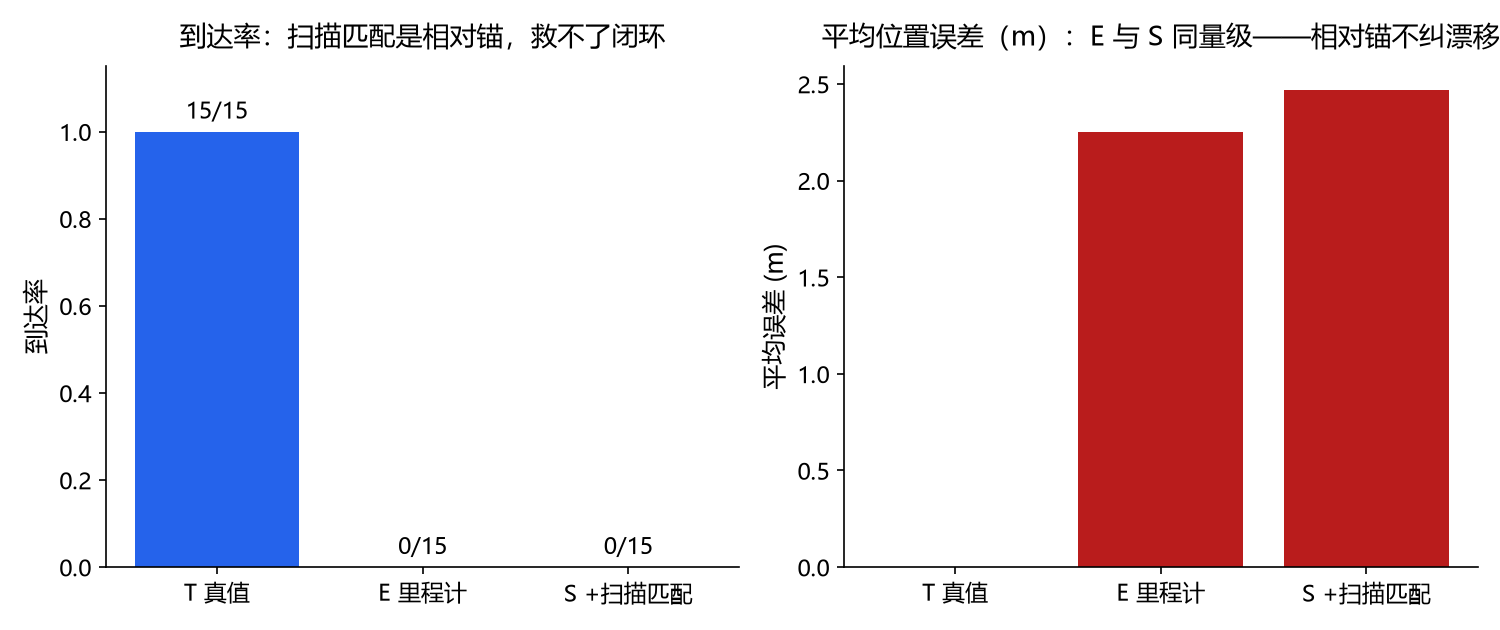
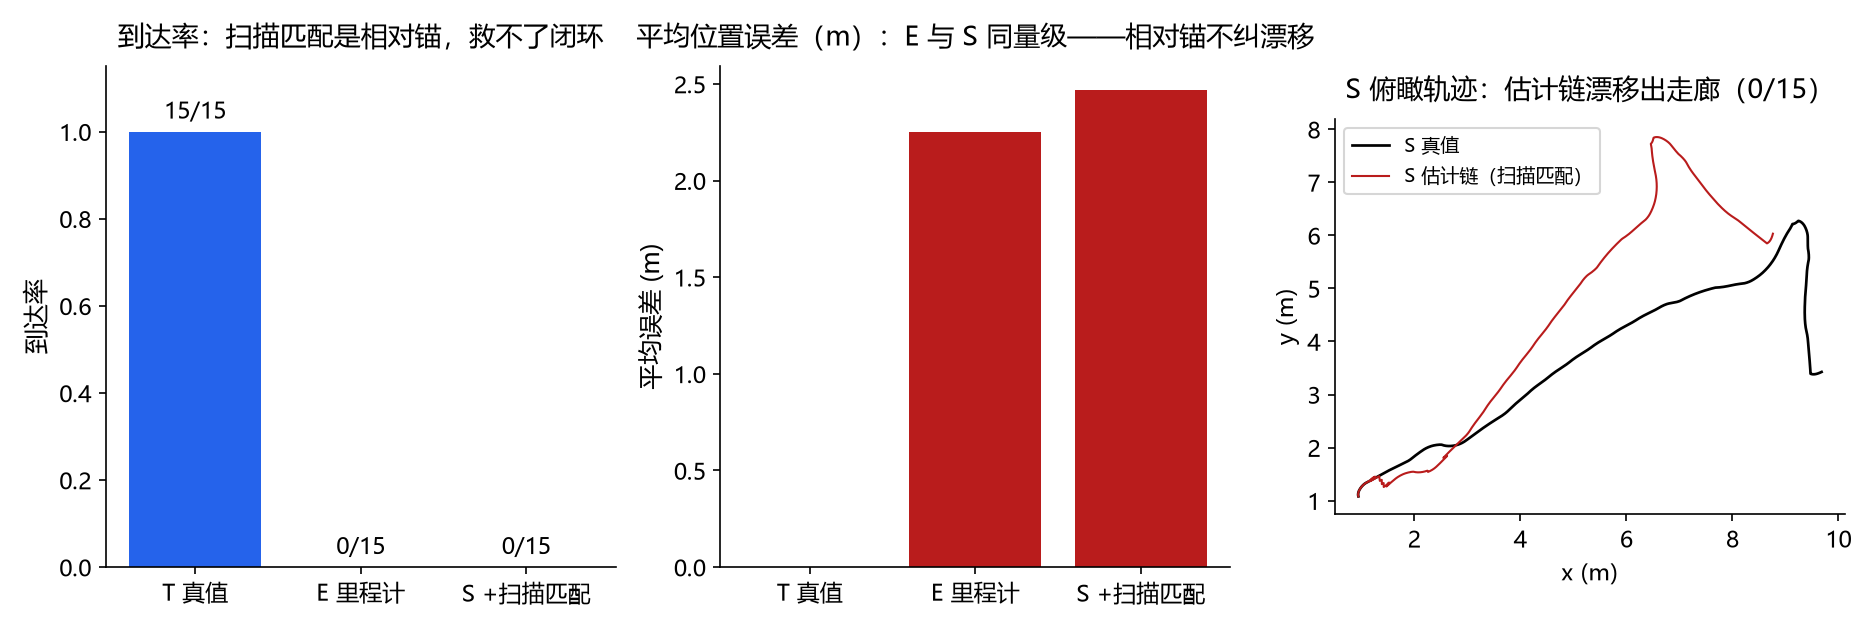
README 图表补运动轨迹面板（43-46 课俯瞰轨迹、56 课轨迹三链），图注同步

diff --git a/docs/img/make_readme_figures.py b/docs/img/make_readme_figures.py
@@ -58,11 +58,22 @@ def save(fig, name):
     print("wrote", name)
 
 
+def traj_panel(ax, chains, title):
+    """Top-down trajectory panel: chains = [(label, xy, color, lw)]."""
+    for label, xy, color, lw in chains:
+        ax.plot(xy[:, 0], xy[:, 1], "-", color=color, lw=lw, label=label)
+    ax.set_aspect("equal")
+    style_axes(ax, title)
+    ax.set_xlabel("x (m)", fontsize=11)
+    ax.set_ylabel("y (m)", fontsize=11)
+    ax.legend(fontsize=9, loc="upper left")
+
+
 # ------------------------------------------------------------ lesson 43
 def lesson43():
-    report, _data = load("grid_nav_2026-09-06_v2")
+    report, data = load("grid_nav_2026-09-06_v2")
     agg = report["aggregates"]
-    fig, axes = two_panel()
+    fig, axes = plt.subplots(1, 3, figsize=(12.5, 4.2), dpi=DPI)
     names = ["A 盲飞（纯目标点）", "B 全栈（建图+A*+追踪）"]
     rates = [
         agg["A"]["obstacle"]["arrival_rate"],
@@ -83,16 +94,24 @@ def lesson43():
         axes[1].text(i, v + 20, str(v), ha="center", fontsize=12)
     style_axes(axes[1], "碰撞事件总数：1005 → 0")
     axes[1].set_ylabel("碰撞事件", fontsize=12)
+    traj_panel(
+        axes[2],
+        [
+            ("B 组执行轨迹（场景 1）", data["truth_B_1_0"], C_PF, 1.4),
+            ("A 组盲飞轨迹（场景 1）", data["truth_A_1_0"], C_BAD, 1.0),
+        ],
+        "俯瞰轨迹：B 沿规划路径，A 在起点打转",
+    )
     save(fig, "lesson-43-charts.png")
 
 
 # ------------------------------------------------------------ lesson 44
 def lesson44():
-    report, _data = load("nav_pose_error_2026-09-07")
+    report, data = load("nav_pose_error_2026-09-07")
     agg = report["aggregates"]
     names = ["T 真值", "O1 里程计1%", "O2 里程计2%", "F 融合观测"]
     rates = [agg[g]["obstacle"]["arrival_rate"] for g in ("T", "O1", "O2", "F")]
-    fig, axes = two_panel()
+    fig, axes = plt.subplots(1, 3, figsize=(12.5, 4.2), dpi=DPI)
     axes[0].bar(names, rates, color=[C_GOOD, C_BAD, C_BAD, C_PF])
     for i, v in enumerate(rates):
         axes[0].text(i, v + 0.03, f"{int(v * 15)}/15", ha="center", fontsize=11)
@@ -108,16 +127,24 @@ def lesson44():
     )
     style_axes(axes[1], "融合观测后定位误差回到真值量级（2.5 cm）")
     axes[1].set_ylabel("平均定位误差 (m)", fontsize=12)
+    traj_panel(
+        axes[2],
+        [
+            ("O2 真值", data["truth_O2_1_0"], "k", 1.3),
+            ("O2 估计链（2% 偏差）", data["estimates_O2_1_0"], C_BAD, 1.0),
+        ],
+        "O2 俯瞰轨迹：估计链原地兜圈（0/15）",
+    )
     save(fig, "lesson-44-charts.png")
 
 
 # ------------------------------------------------------------ lesson 45
 def lesson45():
-    report, _data = load("scan_slam_2026-09-07")
+    report, data = load("scan_slam_2026-09-07")
     agg = report["aggregates"]
     names = ["T 真值", "E 里程计", "S +扫描匹配"]
     rates = [agg[g]["obstacle"]["arrival_rate"] for g in ("T", "E", "S")]
-    fig, axes = two_panel()
+    fig, axes = plt.subplots(1, 3, figsize=(12.5, 4.2), dpi=DPI)
     axes[0].bar(names, rates, color=[C_GOOD, C_BAD, C_BAD])
     for i, v in enumerate(rates):
         axes[0].text(i, v + 0.03, f"{int(v * 15)}/15", ha="center", fontsize=11)
@@ -132,17 +159,25 @@ def lesson45():
     axes[1].bar(names, errs, color=[C_GOOD, C_BAD, C_BAD])
     style_axes(axes[1], "平均位置误差（m）：E 与 S 同量级——相对锚不纠漂移")
     axes[1].set_ylabel("平均误差 (m)", fontsize=12)
+    traj_panel(
+        axes[2],
+        [
+            ("S 真值", data["truth_S_1_0"], "k", 1.3),
+            ("S 估计链（扫描匹配）", data["estimates_S_1_0"], C_BAD, 1.0),
+        ],
+        "S 俯瞰轨迹：估计链漂移出走廊（0/15）",
+    )
     save(fig, "lesson-45-charts.png")
 
 
 # ------------------------------------------------------------ lesson 46
 def lesson46():
-    report, _data = load("loop_closure_2026-09-07")
+    report, data = load("loop_closure_2026-09-07")
     agg = report["aggregates"]
     names = ["N", "S", "L", "LT"]
     finals = [num(agg[g]["final_position_error_m"]) for g in names]
     relaxed = [num(agg[g].get("final_position_error_relaxed_m")) for g in names]
-    fig, axes = two_panel()
+    fig, axes = plt.subplots(1, 3, figsize=(12.5, 4.2), dpi=DPI)
     x = np.arange(4)
     axes[0].bar(x - 0.18, finals, 0.36, color=C_BAD, label="松弛前")
     axes[0].bar(x + 0.18, relaxed, 0.36, color=C_PF, label="松弛后")
@@ -158,6 +193,15 @@ def lesson46():
     axes[1].set_ylim(0, 1.05)
     style_axes(axes[1], "回环检测成功率（宽门匹配 + 残差门）")
     axes[1].set_ylabel("成功率", fontsize=12)
+    traj_panel(
+        axes[2],
+        [
+            ("真值巡逻", data["truth_0_0"], "k", 1.3),
+            ("L 估计链（漂移）", data["est_L_0_0"], C_BAD, 1.0),
+            ("弧长校正链（回环后）", data["relaxed_chain"], C_PF, 1.4),
+        ],
+        "回环闭合：漂移链被校正链拉回真值",
+    )
     save(fig, "lesson-46-charts.png")
 
 
@@ -393,7 +437,7 @@ def lesson55():
 # ------------------------------------------------------------ lesson 56
 def lesson56():
     report, data = load("map_localization_2026-09-09")
-    fig, axes = two_panel(figsize=(10.0, 4.4))
+    fig, axes = plt.subplots(1, 3, figsize=(12.5, 4.2), dpi=DPI)
     axes[0].plot(data["est_err_curve"], color=C_EST, lw=1.1, label="EST 无图漂移链")
     axes[0].plot(data["pf_self_err"], color=C_SELF, lw=0.9, label="PF-SELFBUILT 自建图")
     axes[0].plot(data["pf_true_err"], color=C_PF, lw=1.3, label="PF-TRUEMAP 优质图")

diff --git a/README.md b/README.md
@@ -1031,7 +1031,7 @@ uv run python -m embodied_learning.act_torch_demo --results results/act_torch_re
 ## 第四十三课：占据栅格建图 + A\* 路径规划——回到感知-建图-规划主线
 
 ![第四十三课演示画面：三模式合览](docs/img/lesson-43-demo.png)
-![第四十三课数据图：左=到达率对比（15/15 vs 3/15）；右=碰撞事件 1005→0](docs/img/lesson-43-charts.png)
+![第四十三课数据图：左=到达率（15/15 vs 3/15）；中=碰撞 1005→0；右=俯瞰轨迹（B 沿规划路径，A 打转）](docs/img/lesson-43-charts.png)
 
 数据解读：B 组到达率 100%、零碰撞，路径比中位 0.974≈全知最短——分层栈各层安全常数必须全局一致。
 
@@ -1061,7 +1061,7 @@ uv run python -m embodied_learning.grid_nav_demo --results results/grid_nav_2026
 ## 第四十四课：定位误差穿栈——位姿不确定下建图-规划-追踪还成立吗？
 
 ![第四十四课演示画面：三模式合览](docs/img/lesson-44-demo.png)
-![第四十四课数据图：左=四组到达率（T/F 15/15，O1/O2 全灭）；右=融合后误差回到 2.5 cm](docs/img/lesson-44-charts.png)
+![第四十四课数据图：左=四组到达率；中=融合后误差 2.5 cm；右=O2 轨迹（估计链原地兜圈）](docs/img/lesson-44-charts.png)
 
 数据解读：1% 里程计偏差即 0/15——定位是导航栈的地基；地标融合后 15/15、误差 2.5 cm 与真值组等价。
 
@@ -1093,7 +1093,7 @@ uv run python -m embodied_learning.nav_pose_error_demo --results results/nav_pos
 ## 第四十五课：最小栅格 SLAM——扫描匹配是相对锚，不能给出绝对真值
 
 ![第四十五课演示画面：三模式合览](docs/img/lesson-45-demo.png)
-![第四十五课数据图：左=T/E/S 到达率（E 与 S 均 0/15）；右=平均误差同量级](docs/img/lesson-45-charts.png)
+![第四十五课数据图：左=到达率；中=平均误差同量级；右=S 轨迹（估计链漂出走廊）](docs/img/lesson-45-charts.png)
 
 数据解读：扫描匹配改善局部一致性，但相对锚不能给出绝对真值——S 组 0/15 与纯里程计同量级。
 
@@ -1118,7 +1118,7 @@ uv run python -m embodied_learning.scan_slam_demo --results results/scan_slam_20
 ## 第四十六课：回环闭合——绝对锚的第二形态
 
 ![第四十六课演示画面：三模式合览](docs/img/lesson-46-demo.png)
-![第四十六课数据图：左=四链末端误差（松弛前/后）；右=L 组回环检测成功率](docs/img/lesson-46-charts.png)
+![第四十六课数据图：左=末端误差松弛前/后；中=检测成功率；右=回环闭合三链（漂移链被拉回真值）](docs/img/lesson-46-charts.png)
 
 数据解读：回环闭合把末端误差从 9.18 m 压到 0.14 m（LT 黄金边 0.16 m）——回环是绝对锚的第二形态。
 
@@ -1232,7 +1232,7 @@ uv run python -m embodied_learning.pose_graph_demo --results results/pose_graph_
 
 左图：三条误差曲线——EST（红）随里程累积发散到 7 m+，PF-TRUEMAP（绿）被图钉住、有界振荡（末端 7.37→2.62 m，2.8×），PF-SELFBUILT（灰）居中（自建图被建图时的漂移涂抹）；右图：轨迹三链可见 PF 贴着真值而 EST 漂走。绑架重定位 0/5 如实阴性（稀疏标记图+4 重对称+粒子不足）。
 
-![第五十六课图：左=EST/PF-SELFBUILT/PF-TRUEMAP 误差曲线；右=绑架五时点恢复误差](docs/img/lesson-56-charts.png)
+![第五十六课图：左=误差曲线；中=轨迹三链（PF 贴真值、EST 漂走）；右=绑架五时点恢复误差](docs/img/lesson-56-charts.png)
 
 讲义：[docs/61](docs/61-session-56-map-localization.md)；演示窗口：`uv run python -m embodied_learning.map_localization_demo`。
 
